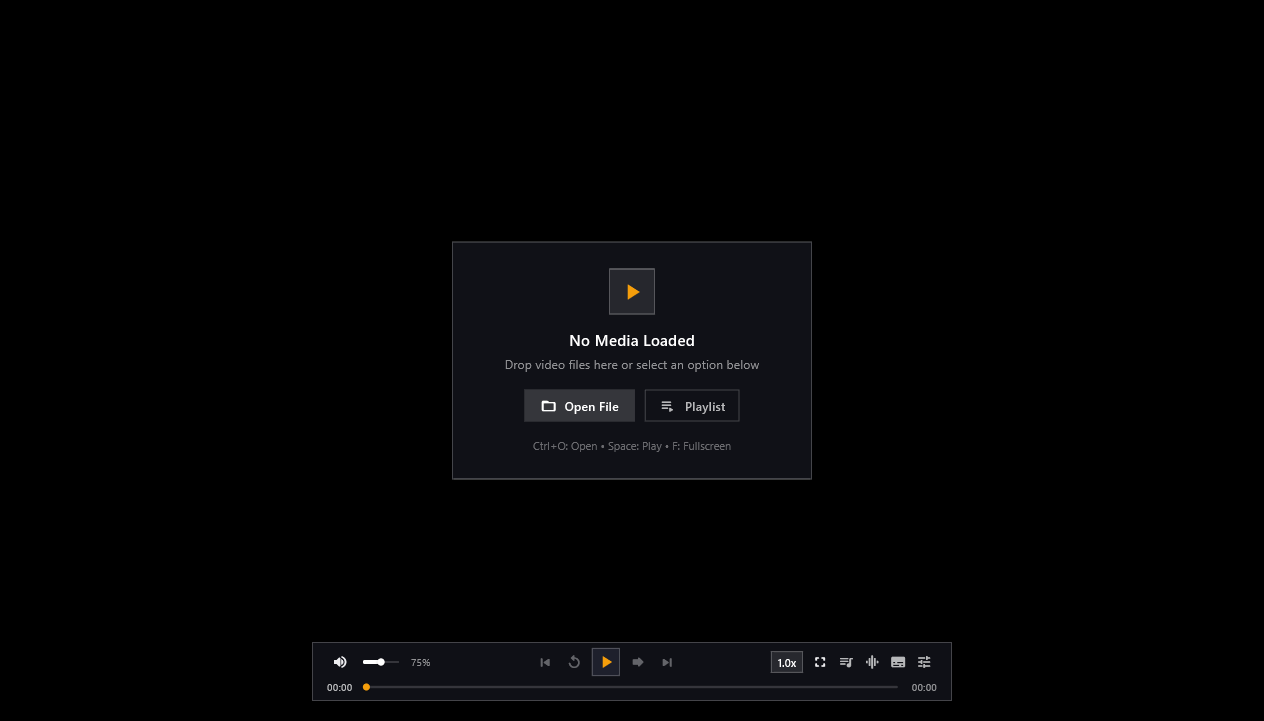
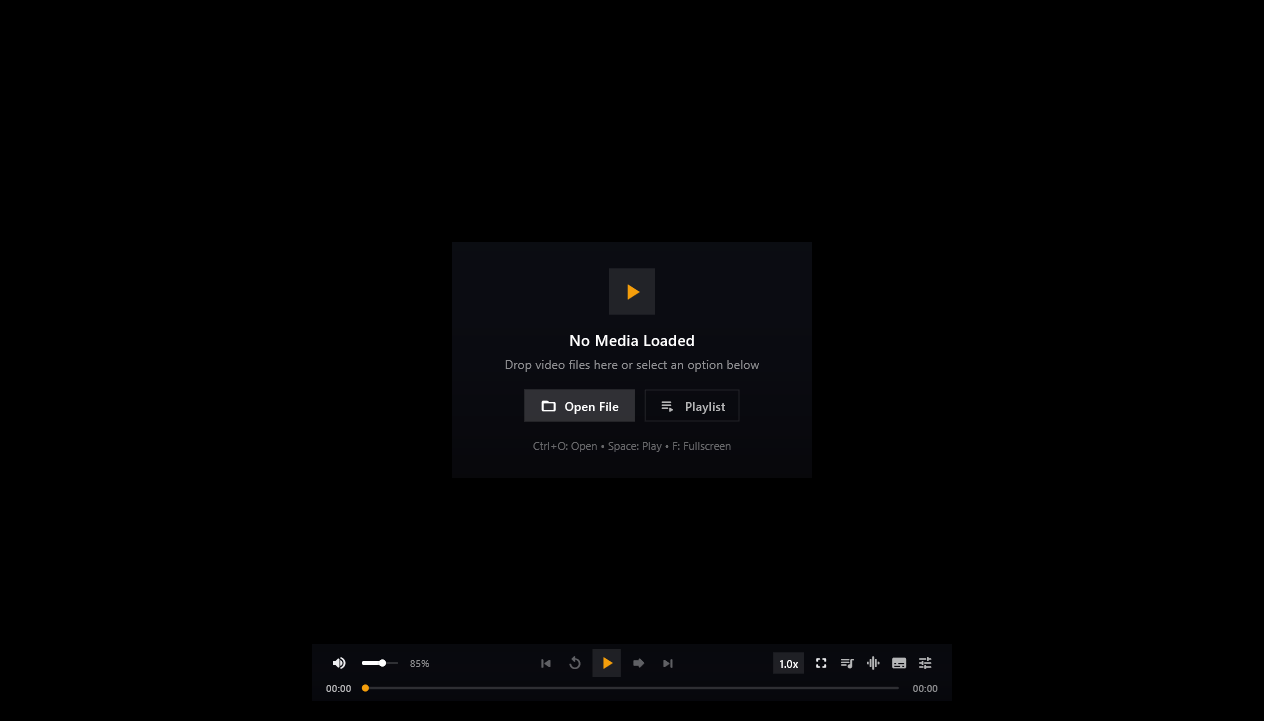
Refine playbar texture to borderless gradient fade and refresh screenshots

diff --git a/lib/features/player/screens/player_screen.dart b/lib/features/player/screens/player_screen.dart
@@ -1117,14 +1117,21 @@ class _EmptyStateOverlay extends StatelessWidget {
       child: Container(
         width: 360,
         padding: const EdgeInsets.symmetric(horizontal: 28, vertical: 26),
-        decoration: BoxDecoration(
-          color: const Color(0xF4111218),
+        decoration: const BoxDecoration(
+          gradient: LinearGradient(
+            begin: Alignment.topCenter,
+            end: Alignment.bottomCenter,
+            colors: [
+              Color(0xB210121A),
+              Color(0xD90C0D14),
+              Color(0xF008080C),
+            ],
+          ),
           borderRadius: BorderRadius.zero,
-          border: Border.all(color: const Color(0x38FFFFFF), width: 1.0),
-          boxShadow: const [
+          boxShadow: [
             BoxShadow(
               color: Color(0x88000000),
-              blurRadius: 30,
+              blurRadius: 36,
               offset: Offset(0, 8),
             ),
           ],
@@ -1135,10 +1142,9 @@ class _EmptyStateOverlay extends StatelessWidget {
             Container(
               width: 46,
               height: 46,
-              decoration: BoxDecoration(
-                color: const Color(0x18FFFFFF),
+              decoration: const BoxDecoration(
+                color: Color(0x18FFFFFF),
                 borderRadius: BorderRadius.zero,
-                border: Border.all(color: const Color(0x38FFFFFF)),
               ),
               alignment: Alignment.center,
               child: const Icon(
@@ -1193,7 +1199,7 @@ class _EmptyStateOverlay extends StatelessWidget {
                 OutlinedButton.icon(
                   style: OutlinedButton.styleFrom(
                     foregroundColor: Colors.white70,
-                    side: const BorderSide(color: Color(0x38FFFFFF)),
+                    side: const BorderSide(color: Color(0x1AFFFFFF)),
                     padding: const EdgeInsets.symmetric(
                       horizontal: 14,
                       vertical: 9,
@@ -1289,18 +1295,32 @@ class _BottomControlsBarState extends ConsumerState<_BottomControlsBar> {
 
     return ClipRect(
       child: BackdropFilter(
-        filter: ui.ImageFilter.blur(sigmaX: 16, sigmaY: 16),
+        filter: ui.ImageFilter.blur(sigmaX: 20, sigmaY: 20),
         child: Container(
           padding: const EdgeInsets.symmetric(horizontal: 14, vertical: 5),
-          decoration: BoxDecoration(
-            color: const Color(0xF6101117),
+          decoration: const BoxDecoration(
+            gradient: LinearGradient(
+              begin: Alignment.topCenter,
+              end: Alignment.bottomCenter,
+              colors: [
+                Color(0x880E1018),
+                Color(0xC80B0C12),
+                Color(0xEB07080D),
+              ],
+              stops: [0.0, 0.45, 1.0],
+            ),
             borderRadius: BorderRadius.zero,
-            border: Border.all(color: const Color(0x38FFFFFF), width: 1.0),
-            boxShadow: const [
+            boxShadow: [
               BoxShadow(
-                color: Color(0x88000000),
-                blurRadius: 24,
-                offset: Offset(0, 8),
+                color: Color(0x66000000),
+                blurRadius: 32,
+                spreadRadius: 2,
+                offset: Offset(0, 6),
+              ),
+              BoxShadow(
+                color: Color(0x33000000),
+                blurRadius: 12,
+                offset: Offset(0, 2),
               ),
             ],
           ),
@@ -1411,7 +1431,7 @@ class _BottomControlsBarState extends ConsumerState<_BottomControlsBar> {
 
                   // Play / Pause sleek right-angle button
                   Material(
-                    color: const Color(0xFF1E202C),
+                    color: const Color(0x18FFFFFF),
                     borderRadius: BorderRadius.zero,
                     child: InkWell(
                       borderRadius: BorderRadius.zero,
@@ -1420,13 +1440,6 @@ class _BottomControlsBarState extends ConsumerState<_BottomControlsBar> {
                         width: 28,
                         height: 28,
                         alignment: Alignment.center,
-                        decoration: BoxDecoration(
-                          borderRadius: BorderRadius.zero,
-                          border: Border.all(
-                            color: const Color(0x38FFFFFF),
-                            width: 0.8,
-                          ),
-                        ),
                         child: Icon(
                           playing ? Icons.pause : Icons.play_arrow,
                           size: 20,
@@ -1478,7 +1491,7 @@ class _BottomControlsBarState extends ConsumerState<_BottomControlsBar> {
                     elevation: 16,
                     shape: const RoundedRectangleBorder(
                       borderRadius: BorderRadius.zero,
-                      side: BorderSide(color: Color(0x38FFFFFF), width: 0.8),
+                      side: BorderSide(color: Color(0x14FFFFFF), width: 0.8),
                     ),
                     itemBuilder: (_) => [0.5, 0.75, 1.0, 1.25, 1.5, 2.0]
                         .map((rate) => PopupMenuItem(
@@ -1510,12 +1523,10 @@ class _BottomControlsBarState extends ConsumerState<_BottomControlsBar> {
                         .toList(),
                     child: Container(
                       padding: const EdgeInsets.symmetric(
-                          horizontal: 6, vertical: 2.5),
-                      decoration: BoxDecoration(
-                        color: const Color(0x1AFFFFFF),
+                          horizontal: 6, vertical: 3),
+                      decoration: const BoxDecoration(
+                        color: Color(0x18FFFFFF),
                         borderRadius: BorderRadius.zero,
-                        border: Border.all(
-                            color: const Color(0x38FFFFFF), width: 0.8),
                       ),
                       child: Text(
                         '${widget.speed}x',
